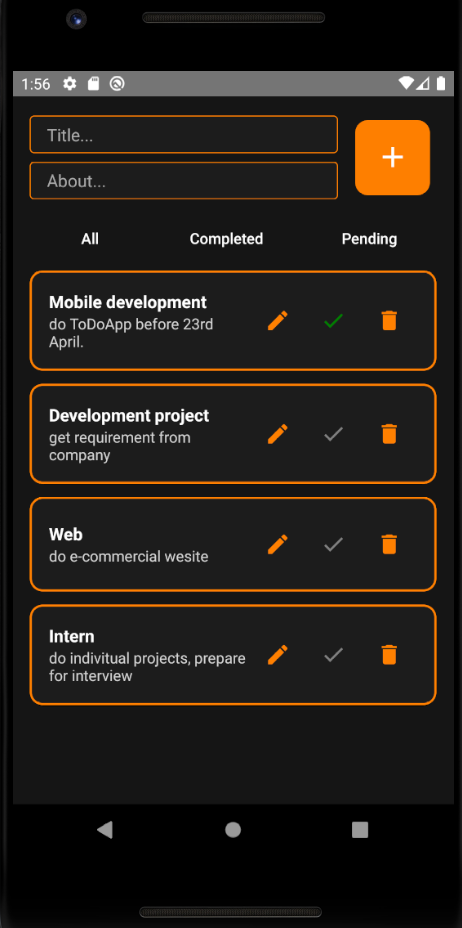
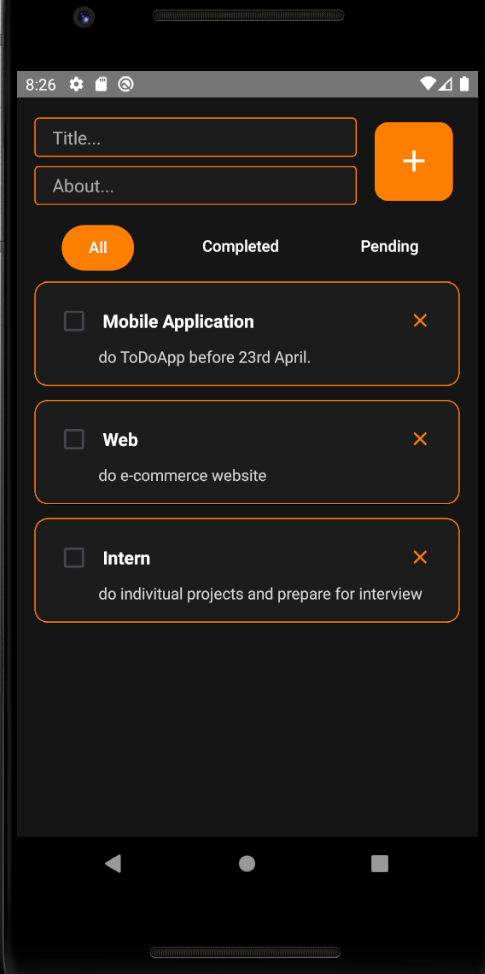
updated

diff --git a/src/screens/TaskScreen.tsx b/src/screens/TaskScreen.tsx
@@ -14,10 +14,19 @@ import {
   Card,
   Text,
   Button,
+  Checkbox,
 } from 'react-native-paper';
 import { useTaskStore } from '../store/useTaskStore';
 
 const ACCENT = '#ff8000';
+
+// Define Task interface
+interface Task {
+  id: string;
+  title: string;
+  about: string;
+  completed: boolean;
+}
 
 const TaskScreen = () => {
   const { tasks, addTask, deleteTask, toggleTask, updateTask, loadTasks } = useTaskStore();
@@ -59,6 +68,10 @@ const TaskScreen = () => {
     setSelectedTaskId(selectedTaskId === taskId ? null : taskId);
   };
 
+  const handleToggleComplete = (taskId: string) => {
+    toggleTask(taskId);
+  };
+
   const handleShare = (taskId: string) => {
     setShareMenuVisible(true);
   };
@@ -98,7 +111,7 @@ const TaskScreen = () => {
   };
 
   // Edit dialog handlers
-  const showEditDialog = (task: any) => {
+  const showEditDialog = (task: Task) => {
     setEditTaskId(task.id);
     setEditTaskTitle(task.title);
     setEditTaskAbout(task.about);
@@ -173,9 +186,30 @@ const TaskScreen = () => {
 
       {/* Filter Buttons */}
       <View style={styles.filterRow}>
-        <Button onPress={() => setFilter('all')} textColor="white">All</Button>
-        <Button onPress={() => setFilter('completed')} textColor="white">Completed</Button>
-        <Button onPress={() => setFilter('pending')} textColor="white">Pending</Button>
+        <Button 
+          onPress={() => setFilter('all')} 
+          textColor="white"
+          mode={filter === 'all' ? 'contained' : 'text'}
+          buttonColor={filter === 'all' ? ACCENT : undefined}
+        >
+          All
+        </Button>
+        <Button 
+          onPress={() => setFilter('completed')} 
+          textColor="white"
+          mode={filter === 'completed' ? 'contained' : 'text'}
+          buttonColor={filter === 'completed' ? ACCENT : undefined}
+        >
+          Completed
+        </Button>
+        <Button 
+          onPress={() => setFilter('pending')} 
+          textColor="white"
+          mode={filter === 'pending' ? 'contained' : 'text'}
+          buttonColor={filter === 'pending' ? ACCENT : undefined}
+        >
+          Pending
+        </Button>
       </View>
 
       {/* Task List */}
@@ -190,10 +224,25 @@ const TaskScreen = () => {
           renderItem={({ item }) => (
             <View style={styles.taskContainer}>
               <TouchableOpacity onPress={() => handleTaskPress(item.id)}>
-                <Card style={styles.card}>
+                <Card style={[
+                  styles.card, 
+                  item.completed && styles.completedCard
+                ]}>
                   <Card.Content>
                     <View style={styles.taskHeader}>
-                      <Text style={styles.title}>{item.title}</Text>
+                      <View style={styles.titleSection}>
+                        <Checkbox
+                          status={item.completed ? 'checked' : 'unchecked'}
+                          onPress={() => handleToggleComplete(item.id)}
+                          color={ACCENT}
+                        />
+                        <Text style={[
+                          styles.title,
+                          item.completed && styles.completedText
+                        ]}>
+                          {item.title}
+                        </Text>
+                      </View>
                       <IconButton
                         icon="close"
                         iconColor={ACCENT}
@@ -202,7 +251,12 @@ const TaskScreen = () => {
                         style={styles.closeButton}
                       />
                     </View>
-                    <Text style={styles.about}>{item.about}</Text>
+                    <Text style={[
+                      styles.about,
+                      item.completed && styles.completedText
+                    ]}>
+                      {item.about}
+                    </Text>
                   </Card.Content>
                 </Card>
               </TouchableOpacity>
@@ -237,6 +291,16 @@ const TaskScreen = () => {
                       onPress={() => showEditDialog(item)}
                       style={styles.actionButton}
                       containerColor="#333"
+                    />
+                  </View>
+                  <View style={styles.actionButtonWrapper}>
+                    <IconButton
+                      icon={item.completed ? "undo" : "check"}
+                      iconColor="white"
+                      size={24}
+                      onPress={() => handleToggleComplete(item.id)}
+                      style={styles.actionButton}
+                      containerColor={item.completed ? "#555" : ACCENT}
                     />
                   </View>
                 </View>
@@ -425,10 +489,20 @@ const styles = StyleSheet.create({
     borderRadius: 12,
     overflow: 'hidden',
   },
+  completedCard: {
+    backgroundColor: '#1a1a1a',
+    borderColor: '#444',
+    opacity: 0.8,
+  },
   taskHeader: {
     flexDirection: 'row',
     justifyContent: 'space-between',
     alignItems: 'center',
+  },
+  titleSection: {
+    flexDirection: 'row',
+    alignItems: 'center',
+    flex: 1,
   },
   closeButton: {
     margin: 0,
@@ -454,11 +528,17 @@ const styles = StyleSheet.create({
     fontSize: 16,
     fontWeight: 'bold',
     flex: 1,
+    marginLeft: 8,
+  },
+  completedText: {
+    color: '#888',
+    textDecorationLine: 'line-through',
   },
   about: {
     color: 'lightgray',
     fontSize: 14,
     marginTop: 4,
+    marginLeft: 40,
   },
   emptyView: {
     flex: 1,
